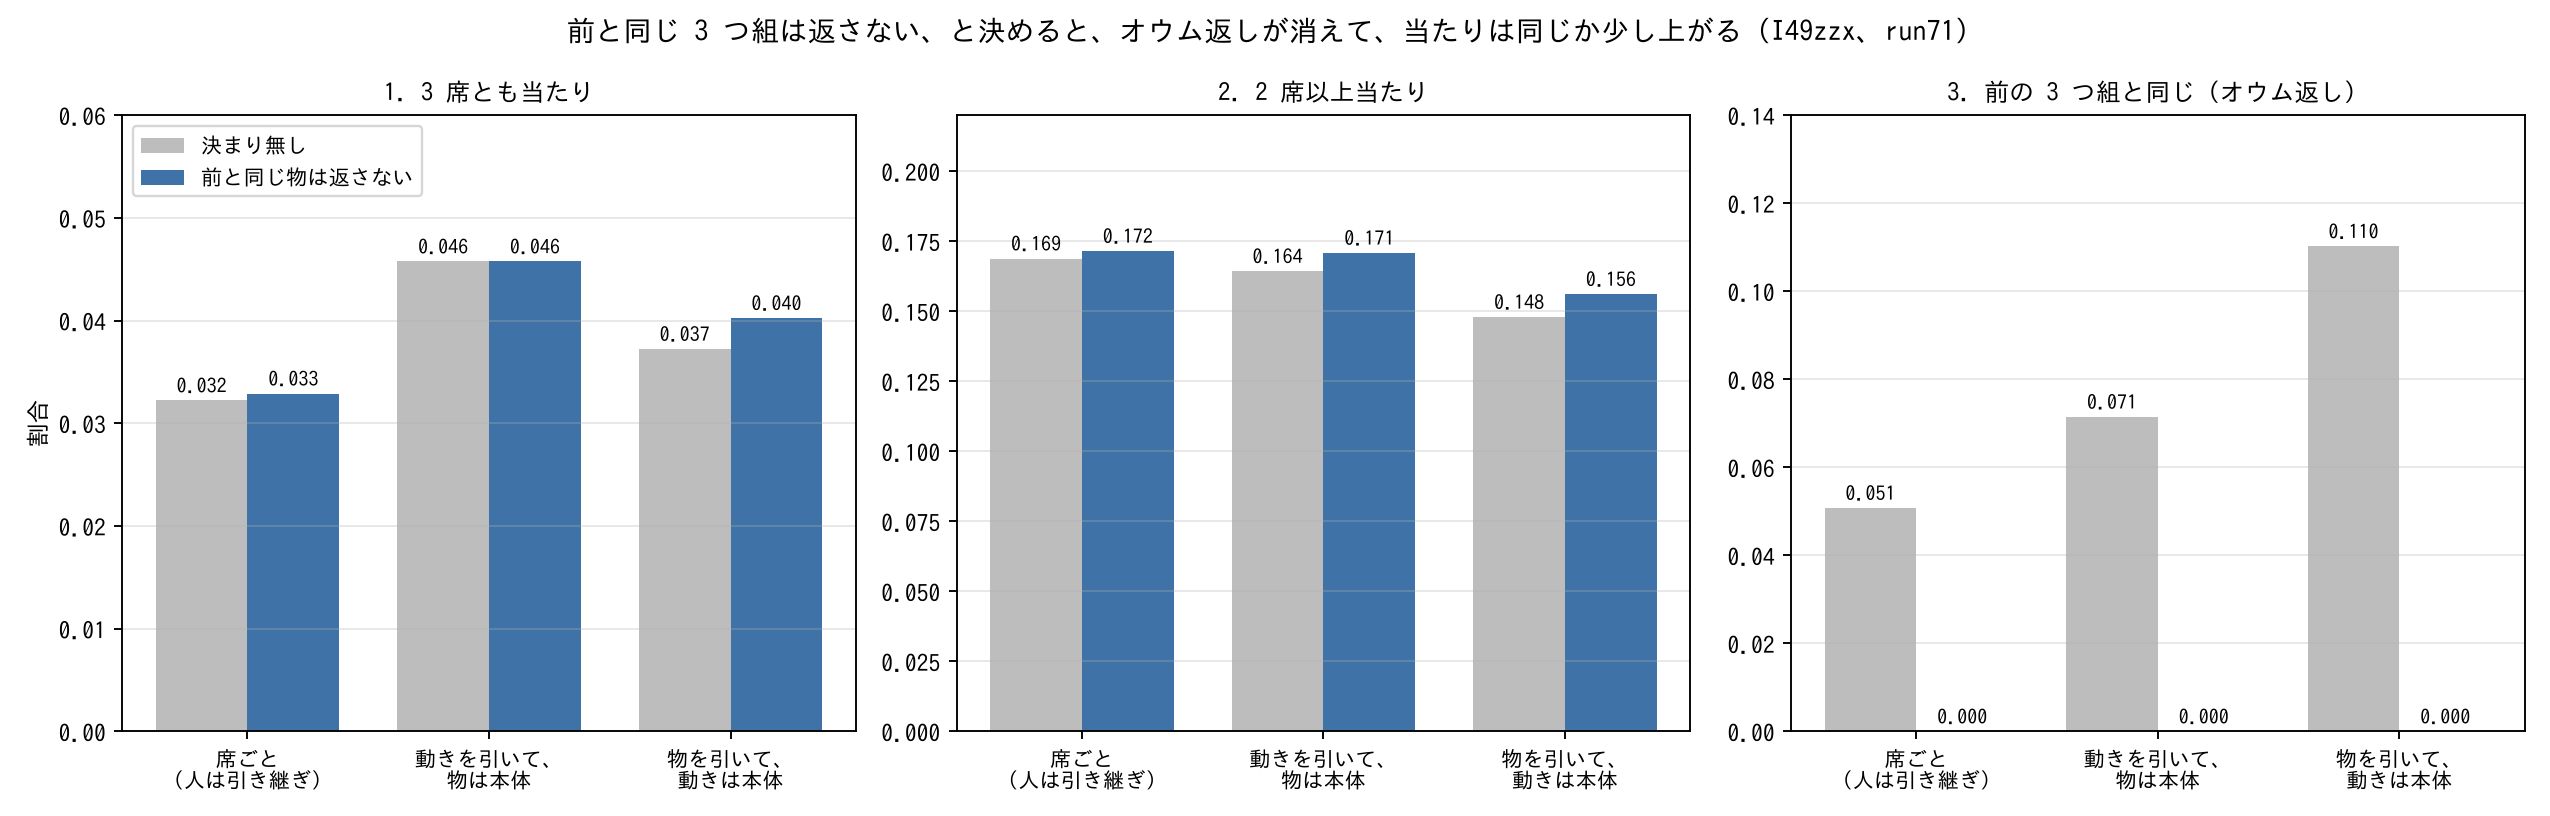
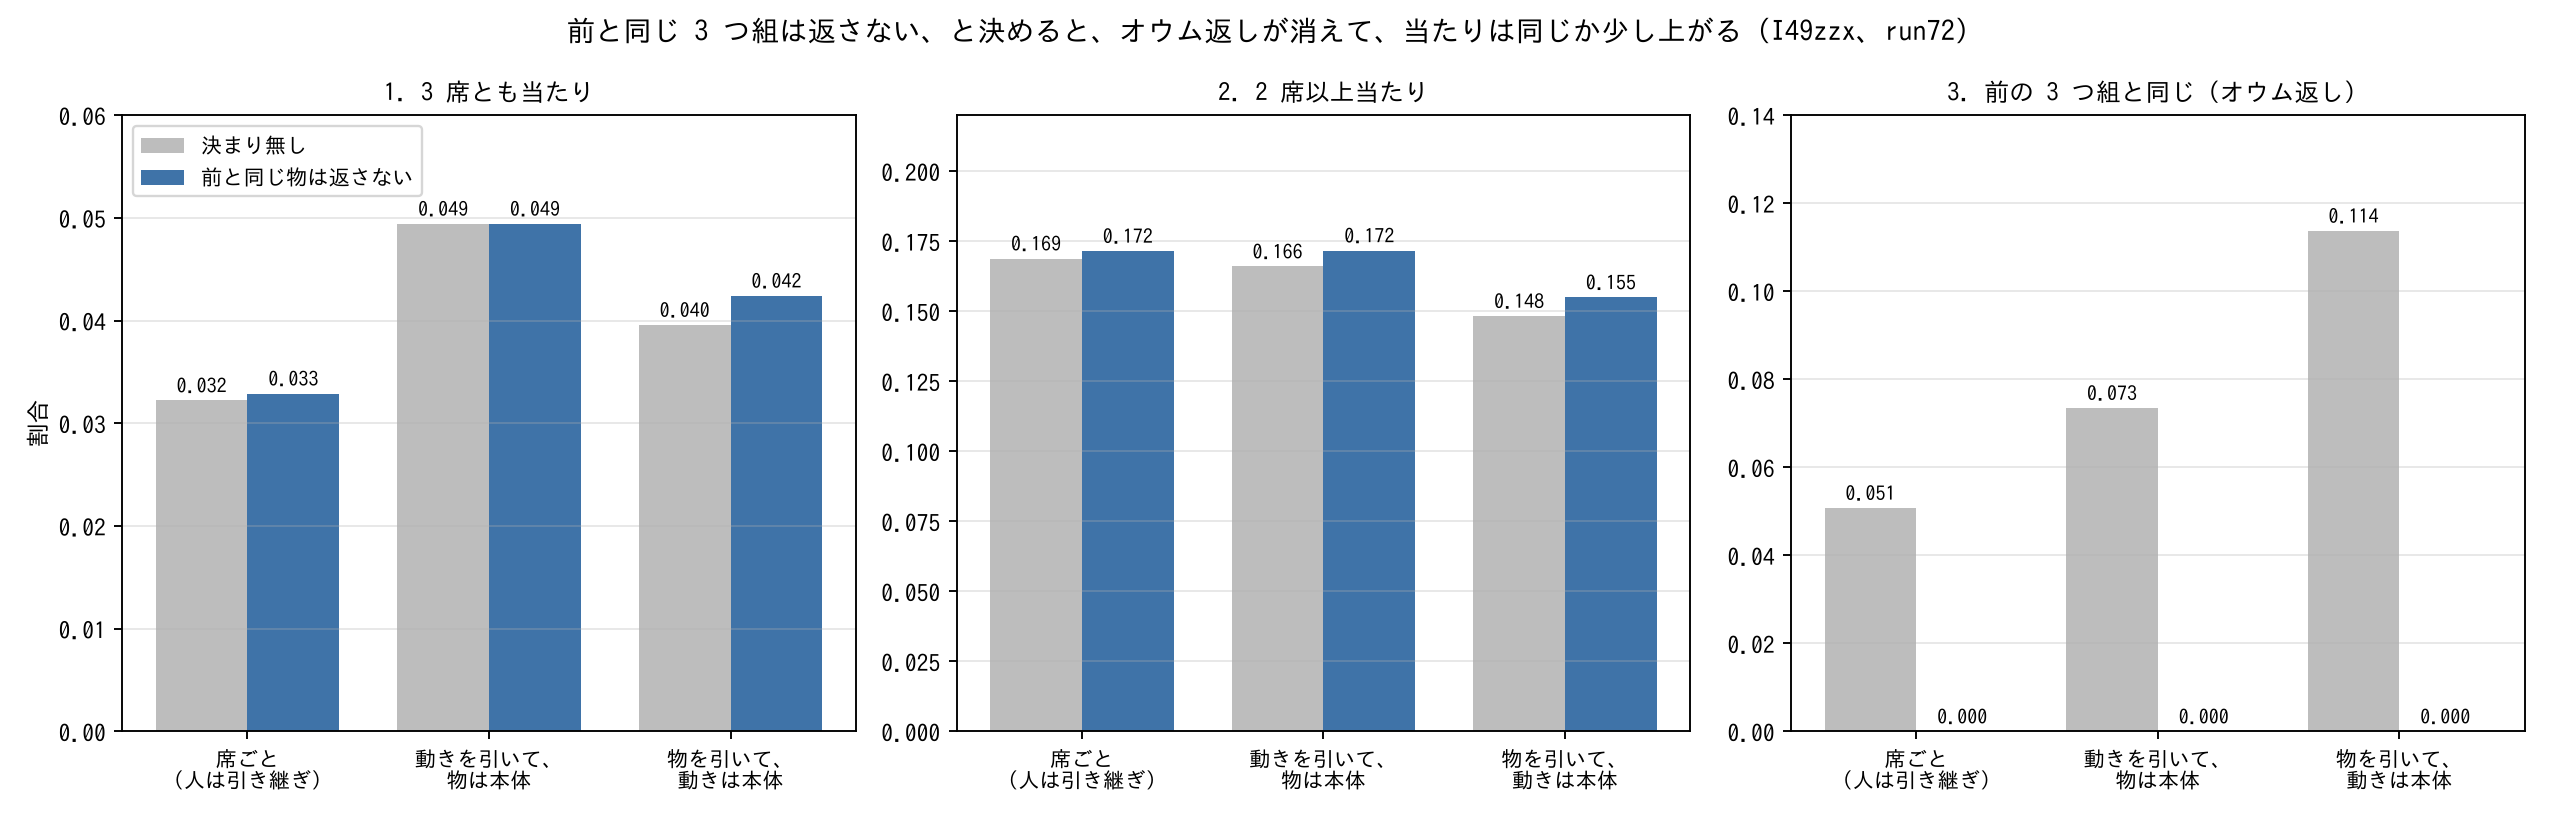
I49zzx: 道具を直して数え直した結果へ記録を直す（75 節の続き 2、図）
Claude-Session: https://claude.ai/code/session_014ak5wfaaDLiGgzRytpjmEr

diff --git a/tools/fig_i49zzx_norepeat.py b/tools/fig_i49zzx_norepeat.py
@@ -1,4 +1,4 @@
-"""I49zzx の図（2 枚目）: 「前と同じ 3 つ組は返さない」決まりを入れる前と後（run71 の合計の数だけ。5,987 問）。"""
+"""I49zzx の図（2 枚目）: 「前と同じ 3 つ組は返さない」決まりを入れる前と後（run72 の合計の数だけ。5,987 問）。"""
 import os
 
 import matplotlib
@@ -8,9 +8,9 @@ from matplotlib import font_manager as fm
 
 N = 5987
 FORMS = ("席ごと\n（人は引き継ぎ）", "動きを引いて、\n物は本体", "物を引いて、\n動きは本体")
-PANELS = (("1. 3 席とも当たり", (193, 274, 223), (197, 274, 241), .06),
-          ("2. 2 席以上当たり", (1011, 984, 886), (1027, 1023, 935), .22),
-          ("3. 前の 3 つ組と同じ（オウム返し）", (304, 428, 660), (0, 0, 0), .14))
+PANELS = (("1. 3 席とも当たり", (193, 296, 237), (197, 296, 254), .06),
+          ("2. 2 席以上当たり", (1011, 994, 888), (1027, 1028, 928), .22),
+          ("3. 前の 3 つ組と同じ（オウム返し）", (304, 440, 681), (0, 0, 0), .14))
 
 
 def main():
@@ -28,7 +28,7 @@ def main():
                 a.text(x, v / N + ylim * .012, "%.3f" % (v / N), ha="center", fontsize=8.5)
         a.set_xticks(range(3)); a.set_xticklabels(FORMS, fontsize=9); a.set_ylim(0, ylim); a.set_title(title, fontsize=10.5); a.grid(alpha=.3, axis="y")
     ax[0].legend(fontsize=9, loc="upper left"); ax[0].set_ylabel("割合")
-    fig.suptitle("前と同じ 3 つ組は返さない、と決めると、オウム返しが消えて、当たりは同じか少し上がる（I49zzx、run71）", fontsize=12)
+    fig.suptitle("前と同じ 3 つ組は返さない、と決めると、オウム返しが消えて、当たりは同じか少し上がる（I49zzx、run72）", fontsize=12)
     fig.tight_layout()
     fig.savefig(os.path.join(os.path.dirname(os.path.abspath(__file__)), "..", "docs", "images", "i49zzx_norepeat.png"), dpi=170)
 

diff --git a/tools/fig_i49zzx_reply.py b/tools/fig_i49zzx_reply.py
@@ -1,4 +1,4 @@
-"""I49zzx の図: 前の 3 つ組から、次の 3 つ組を 1 つの返事として組む（run70 の合計の数だけ。5,987 問）。"""
+"""I49zzx の図: 前の 3 つ組から、次の 3 つ組を 1 つの返事として組む（run72 の合計の数だけ。5,987 問）。"""
 import os
 
 import matplotlib
@@ -8,10 +8,10 @@ from matplotlib import font_manager as fm
 
 N = 5987
 FORMS = ("全部\n引き継ぎ", "席ごと\n（全部、遷移の波）", "席ごと\n（人は引き継ぎ）", "動きを引いて、\n物は本体", "物を引いて、\n動きは本体")
-WHOLE = (0, 183, 193, 274, 223)
-TWO = (268, 940, 1011, 983, 886)
-HEARD = (780, 665, 507, 1055, 1162)
-SAME = (5987, 172, 304, 427, 661)
+WHOLE = (0, 183, 193, 296, 237)
+TWO = (268, 940, 1011, 994, 888)
+HEARD = (780, 665, 507, 1064, 1191)
+SAME = (5987, 172, 304, 440, 681)
 REAL_HEARD = 764
 
 
@@ -39,7 +39,7 @@ def main():
     ax[1].axhline(REAL_HEARD / N, color="#333333", ls="--", lw=1)
     ax[1].text(1.5, REAL_HEARD / N + .004, "本物の次の 3 つ組が、前に聞いた物: %.2f" % (REAL_HEARD / N), fontsize=8.5, ha="center", va="bottom")
     ax[1].legend(fontsize=9, loc="upper center")
-    fig.suptitle("3 つの席を合わせて 1 つの返事に組む: 残りを本体で埋めると、丸ごとの当たりが上がる（I49zzx、run70）", fontsize=12)
+    fig.suptitle("3 つの席を合わせて 1 つの返事に組む: 残りを本体で埋めると、丸ごとの当たりが上がる（I49zzx、run72）", fontsize=12)
     fig.tight_layout()
     fig.savefig(os.path.join(os.path.dirname(os.path.abspath(__file__)), "..", "docs", "images", "i49zzx_reply.png"), dpi=170)
 

diff --git a/docs/experiments_index.md b/docs/experiments_index.md
@@ -167,8 +167,8 @@
 | 相手の行の語 → 返事の行の語のつながり（I49zzu、run65） | 状況波と同じ数え方を、中身の語に使う（席 = 相手の行の語） | 弱い当たり。別の語へ進む時、2 つから選んで .54（比べ役 .49）。繰り返しは .98 | 3 つ組として受けて返す形、2 語を掛け合わせた鍵は未試験（[i49_inner_vessel.md](i49_inner_vessel.md) 72 節） |
 | 意味の印で骨組みを決め、丁寧の有り無しだけを替える（I49zzv、run67・run68） | 打ち消し・過去は I42 の意味の組で先に決め、状況波には丁寧だけを選ばせる | 打ち消しの入れ替わりは 0（文字のまま書き替えると .12〜.23）。元と同じ形 .86 / .69。丁寧は、前の行からは選べない（.52〜.55、いつも多い方 .55〜.60） | 丁寧は「誰が誰に」の状態として渡す形が要る。問い・終わりの助詞は未試験（[i49_inner_vessel.md](i49_inner_vessel.md) 73 節） |
 | 前の 3 つ組から、次の 3 つ組を出す（I49zzw、run69） | 前の 3 つ組だけを見せて、次の 3 つ組の語を席ごとに当てる。引き継ぎ・遷移の数え・遷移の波を比べる | 当てずっぽう .05 に対し、だれが は引き継ぎ .46、何を・どうした は遷移で .17・.16。替わる時だけなら波が数えより上（.20 / .14 / .16 対 .14 / .13 / .14） | 人は引き継ぐ、物と動きは遷移で引く、が出発点。話し手の替わる材料ではまだ（[i49_inner_vessel.md](i49_inner_vessel.md) 74 節） |
-| 3 つの席を合わせて、1 つの返事に組む（I49zzx、run70） | 人は引き継ぎ、動きか物を遷移の波で引き、残りを本体に問うて埋める形など 5 通りを、丸ごと数える | 3 席とも当たり: 席ごと .032、動きを引いて物は本体 .046、物を引いて動きは本体 .037。本物の次が前と同じ事は 0 回なのに、組み方は 3〜11% がオウム返し | 動きを引いて物を本体で埋める形が出発点。前と同じ物を返さない決まりは未試験（[i49_inner_vessel.md](i49_inner_vessel.md) 75 節） |
-| 前と同じ 3 つ組は返さない（I49zzx、run71） | 組んだ 3 つ組が前と同じ時だけ、最後に決めた席を、前の語を除いて選び直す | オウム返しは 0 になり、3 席とも は .046 のまま〜少し上（.037 → .040）、2 席以上 は .164 → .171。下がった数は無い | この材料では損の無い決まり。本体を使う形に、走らせるたび 1〜2 問のずれが残る（[i49_inner_vessel.md](i49_inner_vessel.md) 75 節の続き） |
+| 3 つの席を合わせて、1 つの返事に組む（I49zzx、run70・run72） | 人は引き継ぎ、動きか物を遷移の波で引き、残りを本体に問うて埋める形など 5 通りを、丸ごと数える | 3 席とも当たり: 席ごと .032、動きを引いて物は本体 .049、物を引いて動きは本体 .040（道具を直した run72 の数）。本物の次が前と同じ事は 0 回なのに、組み方は 3〜11% がオウム返し | 動きを引いて物を本体で埋める形が出発点。前と同じ物を返さない決まりは未試験（[i49_inner_vessel.md](i49_inner_vessel.md) 75 節） |
+| 前と同じ 3 つ組は返さない（I49zzx、run71・run72） | 組んだ 3 つ組が前と同じ時だけ、最後に決めた席を、前の語を除いて選び直す | オウム返しは 0 になり、3 席とも は .049 のまま〜少し上（.040 → .042）、2 席以上 は .166 → .172。下がった数は無い | この材料では損の無い決まり。数のずれは道具の誤り（仮の問いが本体の中の数えに入っていた）で、直した（[i49_inner_vessel.md](i49_inner_vessel.md) 75 節の続き） |
 | 器で選び直した時の損はオウム返しか（I49zzg の続き、run60） | 選び直した先が、この話でもう聞いた語だった時を別に数える | 当たり。損は聞いた語を選んだ時に片寄る（幅 0.05 で 100 / 169。聞いていない語なら 112 / 86） | 器を候補と直に比べず、速い波と遅い波のずれで探す広さを決める案（未試験。[i49_inner_vessel.md](i49_inner_vessel.md) 54 節の続き） |
 | 器の速い波と遅い波のずれと、正解の出方（I49zzg の続き 2、run66） | ずれの小さい順に 5 等分して、正解がもう聞いた語かを数える | 弱い当たり。ずれが大きいほど、聞いた語が正解になりにくい（.38 → .33。並べ替え 3 通りとも同じ向き） | ずれで探す広さを決める形は未試験。効きは小さい見込み（[i49_inner_vessel.md](i49_inner_vessel.md) 54 節の続き 2） |
 | 聞いた回数の多い語が勝っている、という疑い（I49y） | — | 外れ。1 位の方が多く聞いた語だったのは 44% | 1 位を取るのは、正解に属性が似た別の語 |

diff --git a/docs/parts_list.md b/docs/parts_list.md
@@ -93,8 +93,8 @@
 | `fig_i49zzu_reply.py` | I49zzu の図: 相手の行の語から、返事の行の語が当たるか（run65、雑談の集計の数だけ。2 つから選ぶ。5 割なら、つながりは無い）。 |
 | `fig_i49zzv_frame.py` | I49zzv の図: 意味の印で骨組みを決め、丁寧の有り無しだけを替える（run67 雑談、run68 青空文庫の集計の数だけ）。 |
 | `fig_i49zzw_next.py` | I49zzw の図: 前の 3 つ組から、次の 3 つ組の語を当てる（run69 の合計の数だけ。席ごと 5,987 問）。 |
-| `fig_i49zzx_norepeat.py` | I49zzx の図（2 枚目）: 「前と同じ 3 つ組は返さない」決まりを入れる前と後（run71 の合計の数だけ。5,987 問）。 |
-| `fig_i49zzx_reply.py` | I49zzx の図: 前の 3 つ組から、次の 3 つ組を 1 つの返事として組む（run70 の合計の数だけ。5,987 問）。 |
+| `fig_i49zzx_norepeat.py` | I49zzx の図（2 枚目）: 「前と同じ 3 つ組は返さない」決まりを入れる前と後（run72 の合計の数だけ。5,987 問）。 |
+| `fig_i49zzx_reply.py` | I49zzx の図: 前の 3 つ組から、次の 3 つ組を 1 つの返事として組む（run72 の合計の数だけ。5,987 問）。 |
 | `i49b_read_long.py` | I49b: 物差し 6 の小さな試し。長い文章（青空文庫）を器（I49a の Vessel）に 1 文ずつ読ませ、読み進むうちの変化を数える（数えだけ）。 |
 | `i49c_read_words.py` | I49c の読み手: 文章を 1 語ずつ渡す（持ち主の案「文章の渡しを単語ごとに」「ループが次の単語を自発的に読み込む」、未確定）。 |
 | `i49d_assoc.py` | I49d の下ごしらえ: 連想の口と、語ごとの印（持ち主の案「連想は指揮者の前で、属性の向きが近い物同士をもつ」「入れ物に過去形・現在進行形等の印をいれる」、未確定）。 |
